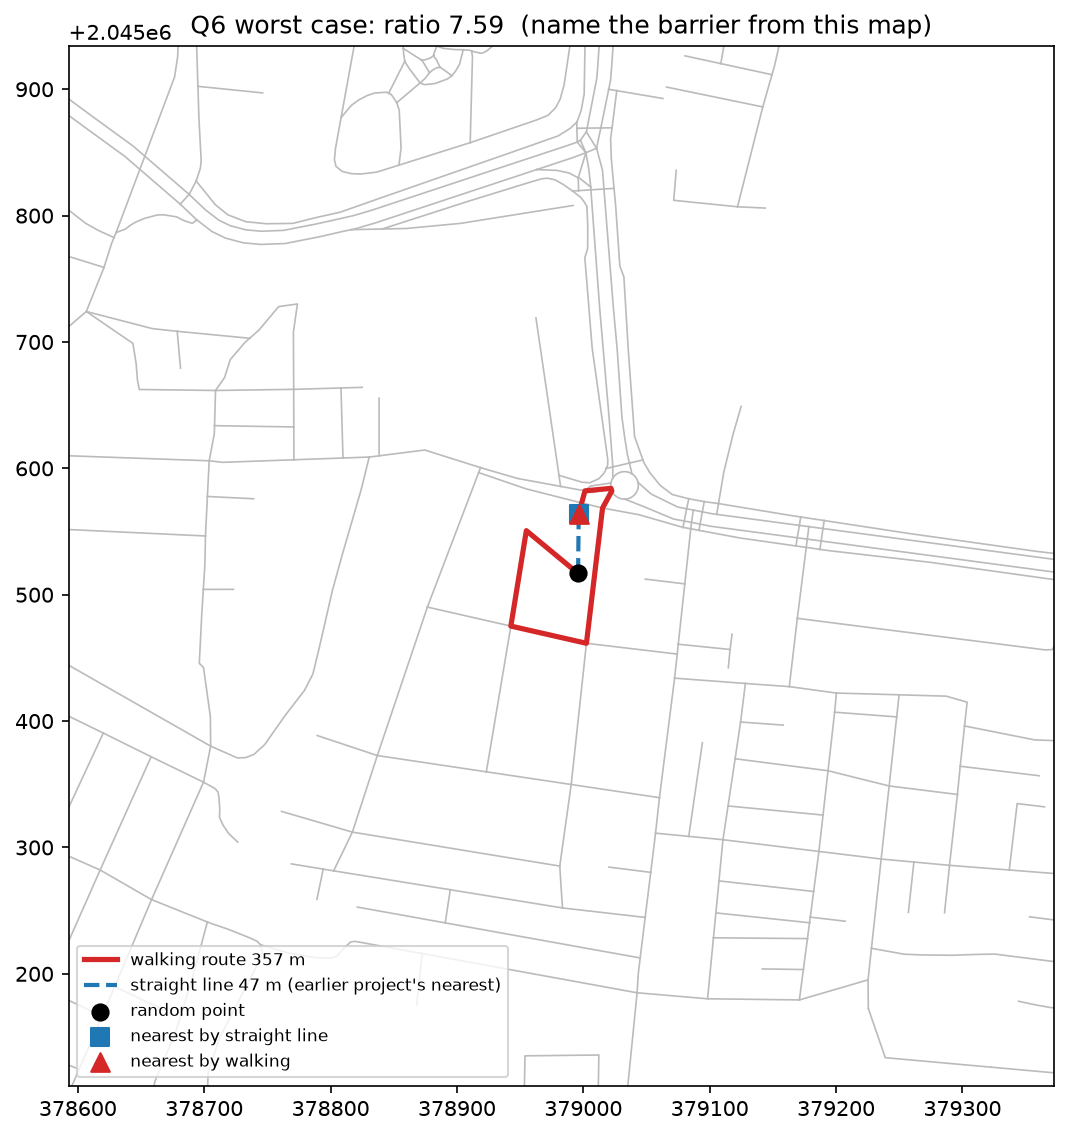
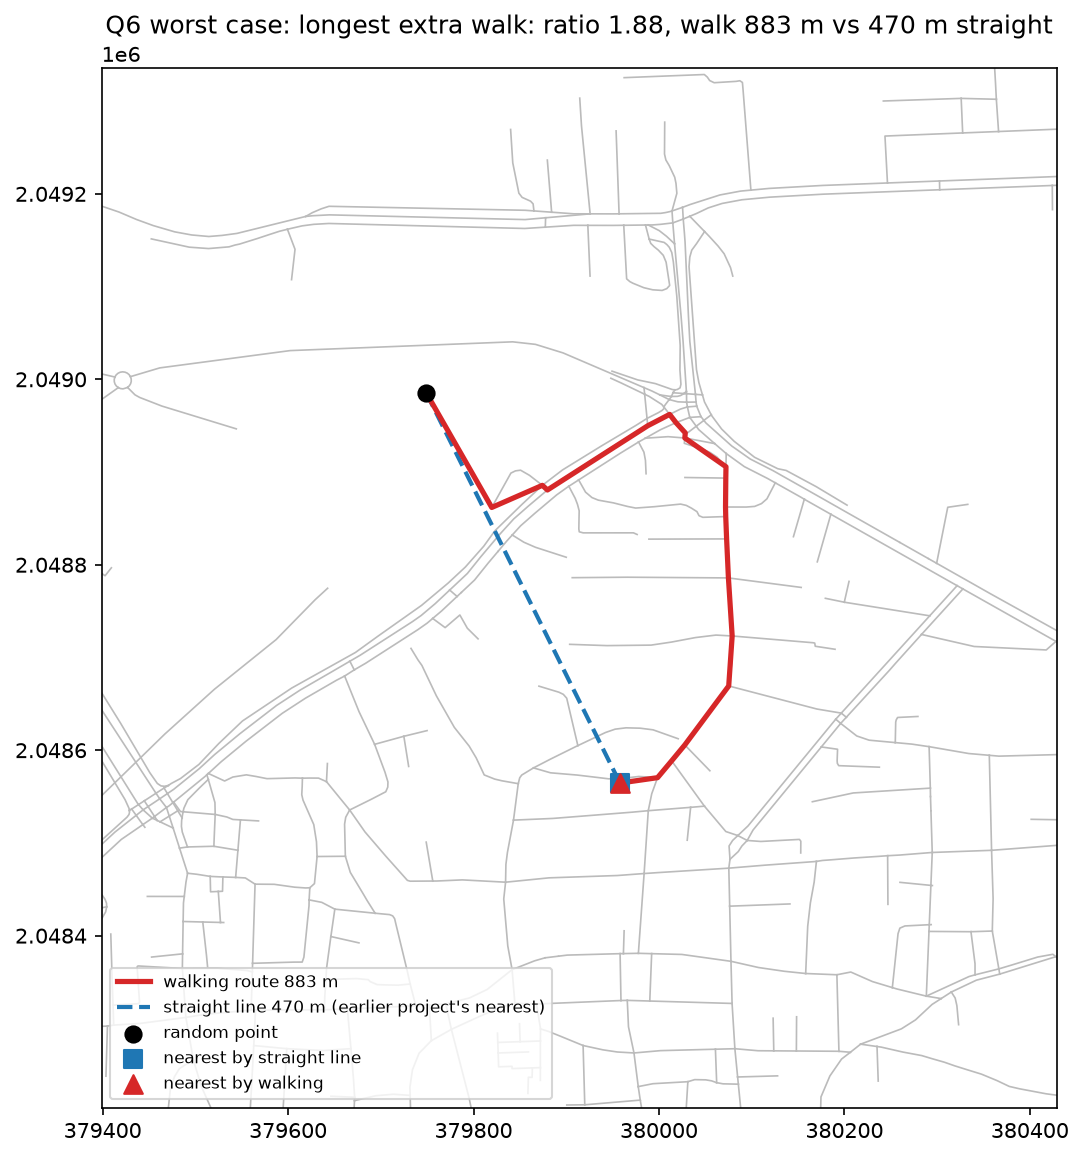
Q6: report longest-extra-walk and max-ratio cases with OSM barrier lookup; refresh Phase 3 results

diff --git a/analysis/03_access_analysis.py b/analysis/03_access_analysis.py
@@ -124,6 +124,34 @@ class Network:
 
 
 # ------------------------------------------------------------------ Q6
+
+def find_barriers(line_utm):
+    """OSM features (river, rail, motorway/trunk, wall, military/railway land) crossing the straight line - candidates only."""
+    poly = gpd.GeoSeries([line_utm.buffer(25)], crs=EPSG).to_crs(4326).iloc[0]
+    tags = {"waterway": ["river", "stream", "canal"], "railway": ["rail", "light_rail", "subway"],
+            "highway": ["motorway", "trunk"], "barrier": ["wall", "fence", "city_wall"], "landuse": ["military", "railway"]}
+    for url in ("https://overpass-api.de/api", "https://overpass.private.coffee/api"):
+        ox.settings.overpass_url = url
+        try:
+            f = ox.features_from_polygon(poly, tags=tags)
+            break
+        except ox._errors.InsufficientResponseError:   # Overpass answered: nothing of these types there
+            return ["none of the checked OSM barrier types (river, railway, motorway/trunk, wall, military/railway land) "
+                    "crosses the straight line - look at the street layout (dead ends, one long detour) on the map"]
+        except Exception as exc:  # network/Overpass problems must not stop the analysis
+            print("  barrier lookup failed on", url, str(exc).splitlines()[0][:80])
+    else:
+        return ["lookup failed (Overpass unavailable) - identify the barrier from the map"]
+    f = f.reset_index()
+    f = f[f.to_crs(EPSG).geometry.intersects(line_utm.buffer(5))]
+    out = []
+    for r in f.itertuples():
+        kind = next((f"{k}={getattr(r, k)}" for k in tags if isinstance(getattr(r, k, None), str)), "?")
+        nm = getattr(r, "name", None)
+        out.append(f"{kind} {nm if isinstance(nm, str) else '(unnamed)'} [{r.element[0]}{r.id}]")
+    return sorted(set(out)) or ["none of the checked OSM barrier types crosses the straight line"]
+
+
 def q6(net: Network, area_utm, svc_all, svc_tree, n=30):
     rng = np.random.default_rng(C.RANDOM_SEED)
     minx, miny, maxx, maxy = area_utm.bounds
@@ -141,26 +169,34 @@ def q6(net: Network, area_utm, svc_all, svc_tree, n=30):
                        "network_m": d_net, "network_nearest": id_net})
     df["different"] = df.straight_nearest != df.network_nearest
     df["ratio"] = df.network_m / df.straight_m
+    df["extra_m"] = df.network_m - df.straight_m
     df.to_csv(C.OUT / "q6_points.csv", index=False)
-    worst = df.loc[df.ratio.idxmax()]
+
+    def case(row, stem, title):
+        sl = svc_all.set_index("osm_id").loc[row.straight_nearest]
+        barriers = find_barriers(LineString([(row.x, row.y), (sl.x, sl.y)]))
+        draw_case(net, svc_all, row, stem, title)
+        return {"straight_m": float(row.straight_m), "network_m": float(row.network_m), "ratio": float(row.ratio),
+                "extra_walk_m": float(row.extra_m), "straight_nearest": row.straight_nearest,
+                "network_nearest": row.network_nearest, "nearest_service_differs": bool(row.straight_nearest != row.network_nearest),
+                "point_utm": [float(row.x), float(row.y)], "barrier_candidates": barriers,
+                "map": f"analysis/out/{stem}.png"}
+
     summary = {
         "n_points": n,
         "n_different_nearest": int(df.different.sum()),
         "median_ratio": float(df.ratio.median()),
         "max_ratio": float(df.ratio.max()),
-        "worst_point_utm": [float(worst.x), float(worst.y)],
-        "worst_straight_m": float(worst.straight_m),
-        "worst_network_m": float(worst.network_m),
-        "worst_straight_nearest": worst.straight_nearest,
-        "worst_network_nearest": worst.network_nearest,
+        # the two ways to read "worst case": the longest extra walk, and the largest ratio (often a close neighbour behind a wall)
+        "worst_case_longest_extra_walk": case(df.loc[df.extra_m.idxmax()], "q6_worst_case", "Q6 worst case: longest extra walk"),
+        "worst_case_max_ratio": case(df.loc[df.ratio.idxmax()], "q6_max_ratio_case", "Q6 largest ratio"),
     }
     (C.OUT / "q6_summary.json").write_text(json.dumps(summary, indent=2))
-    draw_worst_case(net, svc_all, worst)
     print("Q6", json.dumps(summary, indent=2))
     return summary
 
 
-def draw_worst_case(net: Network, svc_all, worst):
+def draw_case(net: Network, svc_all, worst, stem, title):
     H = net.H
     s_line = svc_all.set_index("osm_id").loc[worst.straight_nearest]
     s_net = svc_all.set_index("osm_id").loc[worst.network_nearest]
@@ -171,7 +207,7 @@ def draw_worst_case(net: Network, svc_all, worst):
     coords = [(worst.x, worst.y)] + [(H.nodes[n]["x"], H.nodes[n]["y"]) for n in route] + [(s_net.x, s_net.y)]
     route_line = LineString(coords)
     gpd.GeoDataFrame({"kind": ["network_route"]}, geometry=[route_line], crs=EPSG).to_crs(4326).to_file(
-        C.OUT / "q6_worst_case_route.geojson", driver="GeoJSON")
+        C.OUT / f"{stem}_route.geojson", driver="GeoJSON")
     minx, miny, maxx, maxy = route_line.union(Point(s_line.x, s_line.y)).bounds
     pad = 350
     fig, ax = plt.subplots(figsize=(9, 9))
@@ -191,9 +227,9 @@ def draw_worst_case(net: Network, svc_all, worst):
     ax.set_xlim(minx - pad, maxx + pad)
     ax.set_ylim(miny - pad, maxy + pad)
     ax.set_aspect("equal")
-    ax.set_title(f"Q6 worst case: ratio {worst.ratio:.2f}  (name the barrier from this map)")
+    ax.set_title(f"{title}: ratio {worst.ratio:.2f}, walk {worst.network_m:.0f} m vs {worst.straight_m:.0f} m straight")
     ax.legend(loc="lower left", fontsize=8)
-    fig.savefig(C.OUT / "q6_worst_case.png", dpi=150, bbox_inches="tight")
+    fig.savefig(C.OUT / f"{stem}.png", dpi=150, bbox_inches="tight")
     plt.close(fig)
 
 
@@ -235,21 +271,20 @@ def hex_cells(area_wgs, res):
 
 
 def population_per_cell(cells, res, bld_wgs, hex_gdf_wgs):
-    """WorldPop sum per hex if available, else building footprint area (proxy)."""
+    """WorldPop people per hex if data/worldpop/population.tif exists, else building footprint area (proxy)."""
     if C.WORLDPOP_TIF.exists():
         import rasterio
-        from rasterio.mask import mask
-        pops = []
         with rasterio.open(C.WORLDPOP_TIF) as ds:
-            for g in hex_gdf_wgs.geometry:
-                try:
-                    arr, _ = mask(ds, [g.__geo_interface__], crop=True, nodata=0)
-                    a = arr[0].astype("float64")
-                    a[a < 0] = 0
-                    pops.append(float(a.sum()))
-                except ValueError:  # no overlap
-                    pops.append(0.0)
-        return pd.Series(pops, index=cells), False
+            arr = ds.read(1).astype("float64")
+            tr, nodata = ds.transform, ds.nodata
+        if nodata is not None:
+            arr[arr == nodata] = 0
+        arr[arr < 0] = 0
+        rows, cols = np.nonzero(arr > 0)
+        xs, ys = rasterio.transform.xy(tr, rows, cols)          # pixel centres (lon, lat)
+        idx = [h3.latlng_to_cell(y, x, res) for x, y in zip(xs, ys)]
+        s = pd.Series(arr[rows, cols]).groupby(idx).sum()
+        return s.reindex(cells).fillna(0.0), False
     idx = [h3.latlng_to_cell(y, x, res) for x, y in zip(bld_wgs.x, bld_wgs.y)]
     s = pd.Series(bld_wgs.area_m2.to_numpy()).groupby(idx).sum()
     return s.reindex(cells).fillna(0.0), True
@@ -344,6 +379,7 @@ def main(write_db=True):
         g = w.groupby("ward").agg(pop=("pop", "sum"), pd=("pd", "sum"))
         g["mean_dist_m"] = g.pd / g["pop"]
         g["beyond"] = g.mean_dist_m > THR
+        g["pct_pop_beyond_cells"] = w.assign(b=w["pop"] * (~w.covered_48)).groupby("ward")["b"].sum() / g["pop"] * 100
         q7["by_ward_pct_beyond"] = float(100 * g.loc[g.beyond, "pop"].sum() / g["pop"].sum())
         g.drop(columns="pd").to_csv(C.OUT / "q7_by_ward.csv")
     else:

diff --git a/analysis/03c_q6_only.py b/analysis/03c_q6_only.py
@@ -1,0 +1,26 @@
+"""Re-run ONLY Q6 (about 2 minutes) and patch it into analysis/out/results.json.
+
+Useful when the Q6 rules change without needing the 30-minute isochrone/H3 part of 03_access_analysis.py.
+    python analysis/03c_q6_only.py
+"""
+import importlib
+import json
+import sys
+from pathlib import Path
+
+from scipy.spatial import cKDTree
+from sqlalchemy import create_engine
+
+sys.path.insert(0, str(Path(__file__).parent))
+m = importlib.import_module("03_access_analysis")
+C = m.C
+
+eng = create_engine(C.DATABASE_URL)
+area_utm, svc, bld, wards = m.load_db(eng)
+net = m.Network(m.load_graph(), svc)
+res = m.q6(net, area_utm, svc, cKDTree(svc[["x", "y"]].to_numpy()))
+path = C.OUT / "results.json"
+data = json.loads(path.read_text()) if path.exists() else {}
+data["q6"] = res
+path.write_text(json.dumps(data, indent=2, default=str))
+print("patched q6 into", path)
